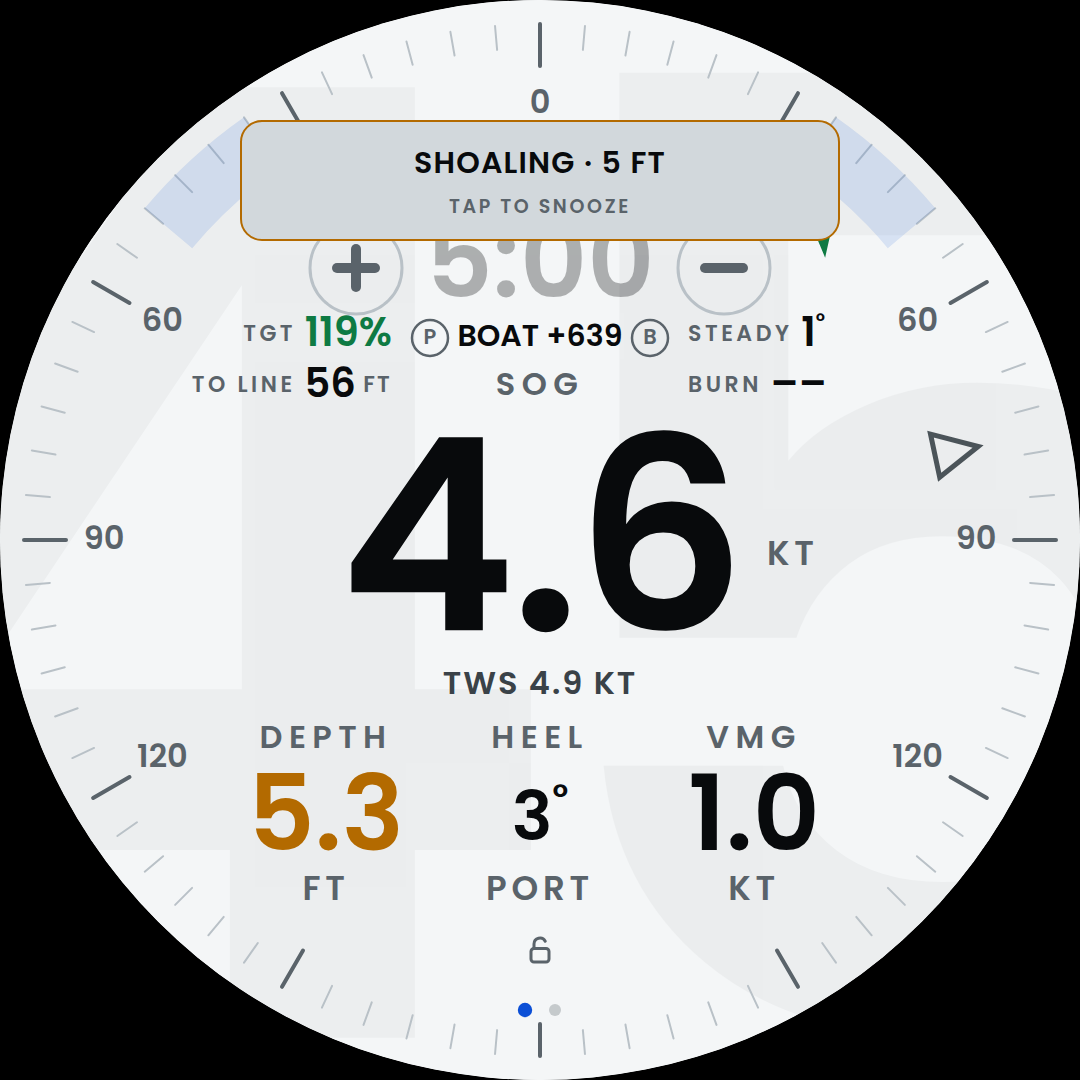
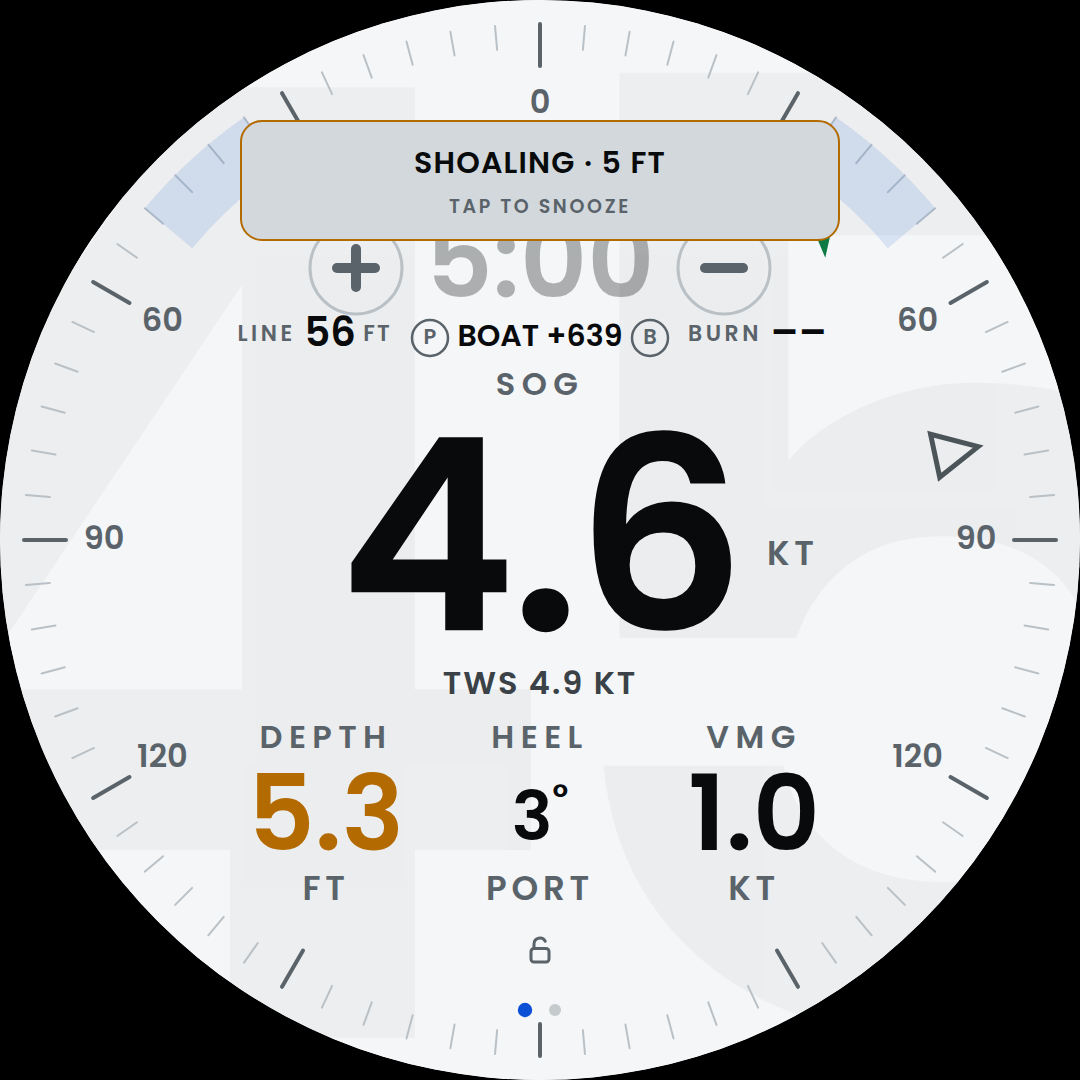
Target speed and the wind shift are readings, not race items
TGT and the shift leave the race cluster and join the picker: tgt under
PERFORMANCE (SOG against the polar target, whole percent, % under it,
green at 98 and up, red under 90) and shf under WIND (degrees, with
LIFT / HEADER / STEADY as the line beneath, green or red by the way).
They were never start-line numbers - wanted on a Sunday beat as much as
on a leg, and no more a race item than VMG is.

The shift's running mean is fed by shiftTick in DATA, every frame on
every page, so a mean that only moved while the cell was showing cannot
snap onto the current wind the moment you pick it. It smooths its own
apparent angle rather than stepping the bezel's filter a second time.

A reading can now judge itself: cls on a cell returns '', 'good' or
'bad', and both painters colour the value by it. The music page also
shows a reading's side line now (STBD, LIFT) where it showed only the
unit - heel there was a bare number.

The cluster is one row: LINE 45 M (P) PIN +12 (B) BURN +3 S, all of it
pre-start. LINE rather than TO LINE, because 999 FT with the longer word
reached the bezel's 60. The big cell's tap rect covers its label again.

Docs: the two readings in their tables, the race set down to the line,
the stale "thirteen" counts gone.

Claude-Session: https://claude.ai/code/session_01BmvizJiQLmvpEFfAxzaKX2

Changed region(s): [[0.1833, 0.275, 0.3667, 0.3667], [0.6417, 0.275, 0.7639, 0.3667]]

diff --git a/confluence_helm.html b/confluence_helm.html
@@ -143,6 +143,9 @@ body.night #mark{opacity:.07}
 .pbtn.set .ring{stroke:var(--stbd)} .pbtn.set text{fill:var(--stbd)}
 .pbtn:active .ring{fill:var(--chip)}
 .stale{opacity:.30}.alarm{fill:var(--alarm)!important}.warn{fill:var(--warn)!important}
+/* a reading that judges itself - target %, the shift - colours its value */
+text.good{fill:var(--stbd)}text.bad{fill:var(--port)}
+.mcell.good b{color:var(--stbd)}.mcell.bad b{color:var(--port)}
 text{font-variant-numeric:tabular-nums;dominant-baseline:middle}
 
 /* ---------------- control panel ----------------
@@ -1361,7 +1364,7 @@ document.body.className = THEME_EFF==='day' ? '' : THEME_EFF;
        or APPARENT WIND. 386 clears them: dominant-baseline:middle puts
        the digits' ink at 432..629, not at the 359 the y attribute alone
        would suggest, so the label's own ink at 373..395 has 37px of air
-       under it. It shares the row with TO LINE and BURN, either side. -->
+       under it. It clears the timer's +/- buttons at 314 too. -->
   <text id="spd-label" class="label" x="540" y="386" text-anchor="middle">SOG</text>
   <text id="spd" class="huge" x="540" y="556" text-anchor="middle">0.0</text>
   <!-- Beside the number, not under it, and sharing its y: every text on
@@ -1377,33 +1380,31 @@ document.body.className = THEME_EFF==='day' ? '' : THEME_EFF;
 
   <!-- The race cluster. Every race number lives up here with the timer,
        which is where the start already is, and the big number below
-       keeps the centre of the glass at full size. Two rows on each side
-       of the pings, in the band between the +/- circles (which end at
-       314) and the big number's ink (which starts at 432):
-           TGT 121%     (P) PIN +12 (B)     LIFT 12°        y 335 / 338
-           TO LINE 45 M       SOG           BURN +3 S       y 386
-       The left items hang off 392 and the right ones start at 688, so
-       the cluster holds together round the pings rather than spreading
-       to the rim; the bezel's 60s at 142..183 and 897..938 stay clear.
-       The rings are at 430 and 650: the club line is 250 m long, so a
-       bias against it can say BOAT +633 (feet), 165 px at 30px, and
-       that has to fit between them with air either side. The second row
-       shares its y with the big cell's label, which is never wider than
-       the 296 between them. TO LINE, BIAS and BURN are
-       up whenever you are pre-start - BURN with dashes until the clock
-       runs, since it is the clock it is counting - and fold away at the
-       gun with the pings, when TGT and the shift are what a leg needs.
+       keeps the centre of the glass at full size. One row, in the band
+       between the +/- circles (which end at 314) and the big cell's
+       label (whose ink starts at 373):
+           LINE 45 M   (P) PIN +12 (B)   BURN +3 S           y 335 / 338
+       LINE hangs off 392 and BURN starts at 688, so the row holds
+       together round the pings rather than spreading to the rim. LINE,
+       not TO LINE: the bezel's 60 sits at 142..183 on this row, and the
+       widest reading, 999 FT, reached 168 with the longer word. The rings are at
+       430 and 650: the club line is 250 m long, so a bias against it
+       can say BOAT +633 (feet), 165 px at 30px, and that has to fit
+       between them with air either side. All of it is up whenever you
+       are pre-start - BURN with dashes until the clock runs, since it is
+       the clock it is counting - and folds away at the gun.
        P and B are the two ends of the line, so the bias reads between
        them: PIN +12 with the P ring on its left is the sentence.
+       Target speed and the wind shift are not here: they are readings,
+       tgt and shf in the picker, wanted on a Sunday beat as much as on
+       a leg and no more a start-line number than VMG is.
        Declared AFTER the big number, not before it: a 268px glyph's
        cell reaches up to 350, and the number painted over the rings
        took the lower half of their taps. -->
   <g id="race">
-    <text id="rc-tgt" x="392" y="335" text-anchor="end"><tspan class="rl">TGT </tspan><tspan class="rv" id="rc-tgt-v">––</tspan></text>
-    <text id="rc-shf" x="688" y="335"><tspan class="rl" id="rc-shf-l">SHIFT </tspan><tspan class="rv" id="rc-shf-v">––</tspan></text>
     <g id="rc-cd">
-      <text id="rc-line" x="392" y="386" text-anchor="end"><tspan class="rl">TO LINE </tspan><tspan class="rv" id="rc-line-v">––</tspan></text>
-      <text id="rc-burn" x="688" y="386"><tspan class="rl">BURN </tspan><tspan class="rv" id="rc-burn-v">––</tspan></text>
+      <text id="rc-line" x="392" y="335" text-anchor="end"><tspan class="rl">LINE </tspan><tspan class="rv" id="rc-line-v">––</tspan></text>
+      <text id="rc-burn" x="688" y="335"><tspan class="rl">BURN </tspan><tspan class="rv" id="rc-burn-v">––</tspan></text>
       <text id="rc-bias" class="rbias" x="540" y="338" text-anchor="middle">––</text>
     </g>
     <!-- start line pings: a circled P and B under the countdown, either
@@ -1474,12 +1475,10 @@ document.body.className = THEME_EFF==='day' ? '' : THEME_EFF;
        long gone. The lower three start at 716 and stop at 904, clear of
        the lock at 914. -->
   <g id="dial-cells">
-    <!-- The big one, over the number AND the unit beside it: a
-         widest-case 88.8 puts the unit's tail at 882. From 400, under
-         the label rather than over it, so TO LINE and BURN on the
-         label's row are not taps on it. -->
-    <rect class="dcell" data-g="dial" data-slot="c0" x="270" y="400"
-          width="620" height="240" fill="transparent"/>
+    <!-- The big one, over the label, the number AND the unit beside it:
+         a widest-case 88.8 puts the unit's tail at 882. -->
+    <rect class="dcell" data-g="dial" data-slot="c0" x="270" y="368"
+          width="620" height="272" fill="transparent"/>
     <rect class="dcell" data-g="dial" data-slot="c1" x="238" y="716"
           width="176" height="188" fill="transparent"/>
     <rect class="dcell" data-g="dial" data-slot="c2" x="452" y="716"
@@ -2363,6 +2362,7 @@ function render(){
   live('s-wnd', awaR!==null);
   live('s-hdg', get('navigation.headingMagnetic')!==null);
   windModeTick();
+  shiftTick();
   lineWatch();
   courseWatch();
 
@@ -2433,30 +2433,6 @@ function render(){
   const preStart = tState==='idle'||tState==='countdown';
   wSty('rc-cd','display', preStart?'':'none');
   wSty('pings','display', preStart?'':'none');
-
-  let tgtPct=null;
-  if(tws!==null && twa!==null && sogR!==null){
-    const t=targetSpeed(tws,twa);
-    if(t>0.3) tgtPct=(sogR*MS_TO_KT)/t*100;
-  }
-  wText('rc-tgt-v', tgtPct===null?'––':tgtPct.toFixed(0)+'%');
-  wCls ('rc-tgt-v','good', tgtPct!==null&&tgtPct>=98);
-  wCls ('rc-tgt-v','bad',  tgtPct!==null&&tgtPct<90);
-
-  let twdDeg=get('environment.wind.directionTrue');
-  twdDeg = twdDeg===null?null:twdDeg*DEG;
-  const sh = windShift(twdDeg, awa);
-  /* Through wCls, not `el.className=`. On an SVG element className is a
-     read-only SVGAnimatedString, so assigning a string to it is a silent
-     no-op - this has been setting the text since it was written and
-     never once turned it green or red. */
-  /* The shift: its label says which way, its value how much. STEADY
-     under two degrees, with the degrees still shown - a 1° is not a 0°. */
-  const steady = sh===null||sh.deg<2;
-  wText('rc-shf-l', (sh===null?'SHIFT' : steady?'STEADY' : sh.lift?'LIFT':'HEADER')+' ');
-  wVal ('rc-shf-v', sh===null?'––':sh.deg.toFixed(0)+'\u00b0');
-  wCls ('rc-shf-v','good', !steady && sh.lift);
-  wCls ('rc-shf-v','bad',  !steady && !sh.lift);
 
   /* The line's numbers. lineData is null without a fix or a wind; burn
      is null until the countdown runs, which is what it counts against.
@@ -2561,6 +2537,20 @@ function targetSpeed(tws,twa){                 // bilinear over the table
    enough that a persistent shift shows and a puff does not. */
 const TWD_TAU=300000;
 let twdAvg=null, twdAt=0;
+/* The shift is a READING now (shf in the picker), but its running mean
+   has to be fed whether or not anyone has it on the glass - a mean that
+   only moved while the cell was showing would snap onto the current
+   wind the moment you picked it and say STEADY through the lift you
+   picked it for. So DATA ticks it every frame, on every page, and the
+   cell reads SHIFT. Through a smoothed apparent angle of its own - the
+   bezel's 'awa' filter is stepped once a frame in DRAW, and stepping it
+   here as well would run it twice as fast. */
+let SHIFT=null;
+function shiftTick(){
+  const twd=get('environment.wind.directionTrue');
+  const a=get('environment.wind.angleApparent');
+  SHIFT=windShift(twd===null?null:twd*DEG, a===null?null:smoothAngle('awa_shf',a*DEG));
+}
 function windShift(twd, awa){
   if(twd===null||awa===null) return null;
   const r=twd*Math.PI/180, now=Date.now();
@@ -5186,6 +5176,14 @@ const MUS_CELLS=[
   {k:'twd', sen:'wnd', name:'WIND DIRECTION', hdr:'TWD',
    u:()=>point(degOf('environment.wind.directionTrue')),
    v:()=>bearing(degOf('environment.wind.directionTrue'))},
+  /* The shift, off the running mean shiftTick keeps. The number is how
+     far, the third line which way: LIFT and HEADER by tack, STEADY under
+     two degrees with the degrees still shown, because a 1° is not a 0°.
+     Green and red through cls, the hook a reading uses to judge itself. */
+  {k:'shf', sen:'wnd', name:'WIND SHIFT', hdr:'SHIFT', u:'',
+   v:()=>SHIFT===null?null:SHIFT.deg.toFixed(0)+'°',
+   sub:()=>SHIFT===null?'':SHIFT.deg<2?'STEADY':SHIFT.lift?'LIFT':'HEADER',
+   cls:()=>SHIFT===null||SHIFT.deg<2?'':SHIFT.lift?'good':'bad'},
   /* The switchers. Each is whichever of two readings the wind can bear
      right now, and delegates everything to it - header, number, unit,
      side - so the cell reads exactly as the underlying one would and
@@ -5270,7 +5268,23 @@ const MUS_CELLS=[
             if(sog===null||twa===null) return null;
             x=sog*Math.cos(twa); }
           return readNum('vmg',x*MS_TO_KT).toFixed(1);}},
+  /* Boat speed against the polar target for this wind, as a percentage.
+     98 and up is on target; under 90 is a sail to look at. Not a
+     start-line number - it used to live with the race set and was
+     asked out - so it is a reading like VMG, wanted on any leg. */
+  {k:'tgt', sen:'perf', name:'TARGET SPEED', hdr:'TGT', u:'%',
+   v:()=>{const tws=get('environment.wind.speedTrue'), twa=get('environment.wind.angleTrueWater'),
+                sog=get('navigation.speedOverGround');
+          if(tws===null||twa===null||sog===null) return null;
+          const t=targetSpeed(tws*MS_TO_KT, Math.abs(twa*DEG));
+          if(t<=0.3) return null;
+          return readNum('tgt', sog*MS_TO_KT/t*100).toFixed(0);},
+   cls:()=>{const c=musCell('tgt'), v=c.v(); if(v===null) return '';
+            return +v>=98?'good' : +v<90?'bad' : '';}},
 ];
+/* A reading's own verdict on its value: '', 'good' or 'bad'. Only the
+   readings that have one define cls; the painters ask through this. */
+const musCls=c=>c&&c.cls ? c.cls() : '';
 /* The dial's wVal builds a <tspan>; this is the same ring for the music
    page, where the cells are HTML. Safe to interpolate: every string it
    sees came out of a value function in MUS_CELLS, which only ever
@@ -5390,7 +5404,7 @@ const DIAL_EL={ c0:['spd-label','spd','spd-u'],
 let dialCellKey='';
 function paintDialCells(){
   const key=DIAL_SLOTS.map(sl=>{ const c=musCell(DIAL.slot[sl]);
-    return sl+(c?c.k+c.v()+musSub(c)+musDU(c)+musHdr(c):''); })
+    return sl+(c?c.k+c.v()+musSub(c)+musDU(c)+musHdr(c)+musCls(c):''); })
     .join('|');
   if(key===dialCellKey) return;
   dialCellKey=key;
@@ -5406,6 +5420,8 @@ function paintDialCells(){
       wText(els[0], !c ? '––' : v===null ? musHdr(c)+' ––'
         : [musHdr(c), v, musSub(c)||musDU(c)].filter(Boolean).join(' '));
       wCls(els[0],'stale', v===null);
+      const cl=musCls(c);
+      wCls(els[0],'good', cl==='good'); wCls(els[0],'bad', cl==='bad');
       continue;
     }
     const [lbl,val,third]=els;
@@ -5428,6 +5444,8 @@ function paintDialCells(){
     const dv = shallow ? parseFloat(v) : null;
     wCls(val,'alarm', shallow && dv<CFG.depthAlarm);
     wCls(val,'warn',  shallow && dv>=CFG.depthAlarm && dv<CFG.depthWarn);
+    const cl=musCls(c);
+    wCls(val,'good', cl==='good'); wCls(val,'bad', cl==='bad');
   }
 }
 
@@ -5470,17 +5488,21 @@ function paintStrip(){
      is the page's business. */
   const row=MUS_SLOTS.map(sl=>{
     const c=musCell(MUS.slot[sl]);
+    /* The third line is the side when the reading has one - STBD,
+       LIFT - and the unit when it does not, exactly as the dial's cells
+       decide it. This page used to show only the unit, so heel here was
+       a bare number with nothing under it. */
     return {sl:sl, k:c?c.k:'', v:c?c.v():null,
-            h:c?musHdr(c):'', u:c?musDU(c):''};
+            h:c?musHdr(c):'', u:c?(musSub(c)||musDU(c)):'', cl:musCls(c)};
   });
-  const key=row.map(r=>r.sl+r.k+r.v+r.h+r.u).join('|');
+  const key=row.map(r=>r.sl+r.k+r.v+r.h+r.u+r.cl).join('|');
   if(key===stripKey) return;              /* nothing moved - leave the DOM alone */
   stripKey=key;
   /* A slot with no reading behind it shows nothing at all rather than a
      dash: an empty corner reads as "not fitted", which is true, and a
      dash reads as "broken", which usually is not. */
   box.innerHTML=row.map(r=> r.v===null ? '' :
-    `<span class="mcell" data-g="mus" data-slot="${r.sl}" data-k="${r.k}">`
+    `<span class="mcell ${r.cl}" data-g="mus" data-slot="${r.sl}" data-k="${r.k}">`
     +`<u>${r.h}</u><b>${degMark(r.v)}</b><em>${r.u}</em></span>`).join('');
   /* The cells are rebuilt, so the menu is anchored to an element that no
      longer exists - re-point it at the new one. */

diff --git a/docs/readings.md b/docs/readings.md
@@ -8,7 +8,7 @@ put a different one in any slot.
 ## Every slot is a choice
 
 There are no fixed readouts. **Tap any number and a menu unrolls from
-it**, listing all thirteen readings with their live values; tap one and
+it**, listing every reading with its live value; tap one and
 it takes that slot. The reading that was there moves to wherever the new
 one came from — a swap, not a shuffle, so nothing you did not touch ever
 moves.
@@ -18,10 +18,10 @@ moves.
 The menu is grouped by **instrument**, which is the useful sort: it
 answers "what else can this box tell me", and it makes a dead sensor
 obvious. A whole group dashed out is a wire to check; one dashed row
-among thirteen reads as normal.
+among many reads as normal.
 
 It opens on the reading the slot already holds, centred, rather than at
-the top — thirteen readings is more than fits, and starting at BOAT SPEED
+the top — the list is longer than fits, and starting at BOAT SPEED
 every time means hunting for where you are before you can go anywhere.
 Drag to scroll it; a flick coasts. A drag never chooses anything, however
 it ends.
@@ -30,7 +30,7 @@ Choices are saved per page (`musSlots` and `dialSlots` in browser
 storage) and survive a restart. The two pages keep separate maps — the
 dial and the music page are not showing the same things and never were.
 
-## The thirteen
+## The readings
 
 Values are magnetic where a compass is involved, and metric or imperial
 follows the depth-unit setting.
@@ -65,10 +65,18 @@ transducer when it is not. This is the reading the shallow alarm watches.
 | WIND ANGLE | `AWA` | — | `environment.wind.angleApparent` |
 | TRUE WIND ANGLE | `TWA` | STBD / PORT | `environment.wind.angleTrueWater` |
 | WIND DIRECTION | `TWD` | compass point | `environment.wind.directionTrue` |
+| WIND SHIFT | `SHIFT` | LIFT / HEADER / STEADY | the direction against its own five-minute mean |
 
 **WIND DIRECTION** is the one wind number that does not move when the
 boat turns, which is what makes a shift a shift rather than a helm error.
-The race strip's LIFT / HEADER is computed from it.
+
+**WIND SHIFT** is that direction against a slow average of where it has
+been: the number is how far, the line under it which way — LIFT or
+HEADER by tack, STEADY under two degrees with the degrees still shown,
+because a 1° is not a 0°. Green for a lift, red for a header. The
+average keeps running whether or not the reading is on the glass, so
+picking it mid-lift shows the lift rather than a mean that has just
+been reset to now.
 
 **WIND ANGLE** is signed either side of the bow, the way it is called on
 deck: forty degrees to starboard is 40, not 320. **TRUE WIND ANGLE** is
@@ -102,9 +110,16 @@ identical, and the rate is the part you cannot guess.
 | Reading | Header | Unit | Source |
 |---|---|---|---|
 | VMG | `VMG` | KT | `performance.velocityMadeGood`, or SOG × cos(TWA) |
+| TARGET SPEED | `TGT` | % | SOG against the polar target for this true wind |
 
-Not a sensor, and it does not pretend to be one. The Signal K plugin
-serves it when it can; the arithmetic is the same number when it cannot.
+Not sensors, and they do not pretend to be. The Signal K plugin serves
+VMG when it can; the arithmetic is the same number when it cannot.
+
+**TARGET SPEED** is how close the boat is to what the polar says she
+should be doing at this wind speed and angle: green at 98 % and up, red
+under 90 %. It used to live with the race set and was asked out — it is
+wanted on a Sunday beat as much as on a leg, and no more a start-line
+number than VMG is.
 
 ## Where they can go
 
@@ -153,36 +168,36 @@ stays against the last digit.
 
 ## The race set
 
-Every race number lives round the timer, which is where the start
+The start-line numbers live round the timer, which is where the start
 already was, so the big number keeps the middle of the glass at full
 size and the readings below keep their cells through the sequence:
 
 ```
           (+)      5:00      (-)
-   TGT 121%   (P) PIN +12 (B)   LIFT 12°
-   TO LINE 45 M     SOG      BURN +3 S
+   LINE 45 M   (P) PIN +12 (B)   BURN +3 S
 ```
 
 ![The dial during a countdown](img/dial-countdown.png)
 
-| Item | What it is | When |
-|---|---|---|
-| `TGT` | boat speed as a percentage of the polar target for this wind; green at 98 % and up, red under 90 % | always |
-| `LIFT` / `HEADER` / `STEADY` | the shift since the wind direction settled: the label says which way, the value how many degrees | always |
-| `P` `B` | the two ends of the line; tap each as you pass it | pre-start |
-| between them | the line's bias: the favoured end and what it is worth, `PIN +12` | pre-start |
-| `TO LINE` | distance to the line, metres or feet with the depth unit; red when you are over | pre-start |
-| `BURN` | seconds in hand to the line at this speed; red when you are late; dashes until the clock runs | pre-start |
+| Item | What it is |
+|---|---|
+| `P` `B` | the two ends of the line; tap each as you pass it |
+| between them | the line's bias: the favoured end and what it is worth, `PIN +12` |
+| `LINE` | distance to the line, metres or feet with the depth unit; red when you are over |
+| `BURN` | seconds in hand to the line at this speed; red when you are late; dashes until the clock runs |
+
+All of it is up whenever the clock is idle or counting down, and folds
+away at the gun.
 
 The bias sits between the P and B rings because they *are* the two
 ends: `PIN +12` with the P ring on its left is the whole sentence. It
 is up while the clock is idle as well as counting down, since the end
 you pick is decided before the sequence, not during it.
 
-The pre-start items fold away at the gun, when TGT and the shift are
-what a leg needs. They used to take over the three bottom cells during
-the countdown instead — which cost you depth, heel and VMG for the
-whole sequence, at the one time you most want the depth.
+They used to take over the three bottom cells during the countdown
+instead — which cost you depth, heel and VMG for the whole sequence, at
+the one time you most want the depth. Target speed and the wind shift
+are not here: they are readings, picked into any slot like the rest.
 
 ## When a sensor is not there
 

diff --git a/README.md b/README.md
@@ -24,7 +24,7 @@ dots at the foot say where you are. The dial is the one you come back to.
 
 | | |
 |---|---|
-| ![Dial](docs/img/dial.png) | **Dial** — the instrument. Five readings you choose, the race set round the timer, a compass bezel carrying apparent and true wind marks, and a start-line timer you tap to run. |
+| ![Dial](docs/img/dial.png) | **Dial** — the instrument. Five readings you choose, the start line round the timer, a compass bezel carrying apparent and true wind marks, and a start-line timer you tap to run. |
 | ![Music](docs/img/music.png) | **Music** — what is playing, transport, a volume ring around the album art, and three more readings around that. |
 
 **Apps** are not pages, and the difference is deliberate: a page is always
@@ -51,12 +51,12 @@ that says which instruments are actually feeding.
 ## Reading the dial
 
 Every number is a choice. **Tap any reading and a menu unrolls from it**,
-grouped by instrument, listing all thirteen with their live values.
+grouped by instrument, listing every one with its live value.
 
 ![The reading picker](docs/img/picker.png)
 
 The defaults are boat speed in the middle, true wind under it, and depth,
-heel and VMG along the bottom — but any of the thirteen goes in any slot,
+heel and VMG along the bottom — but any of them goes in any slot,
 on either page, and the choice is remembered.
 
 → **[What every reading means, and where it comes from](docs/readings.md)**
@@ -133,7 +133,7 @@ docs/                     everything below
 
 | | |
 |---|---|
-| [Readings](docs/readings.md) | the thirteen numbers, what each means, and the picker |
+| [Readings](docs/readings.md) | every number, what each means, and the picker |
 | [The display](docs/display.md) | pages, gestures, the panel and dock, brightness, touch lock, alerts, golden hour |
 | [Radar](docs/radar.md) | two rain services, the metered forecast, the wind layer, the memory budget |
 | [Tracks](docs/tracks.md) | recording a sail, the library, and getting one onto a phone |
